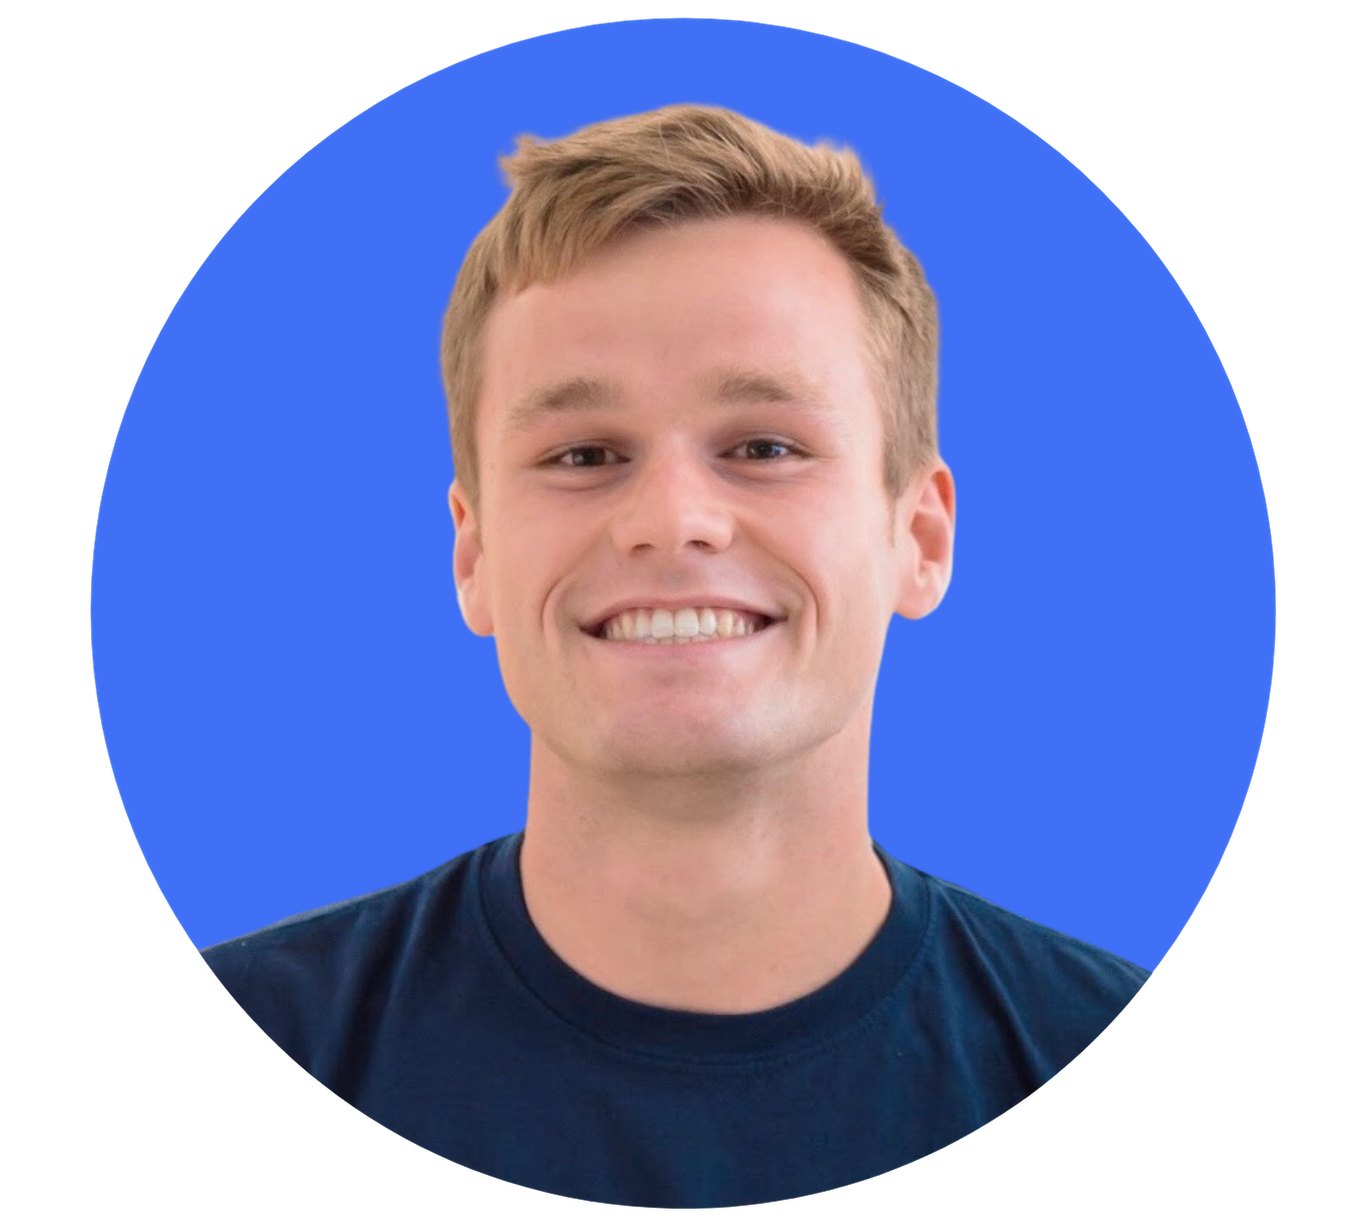
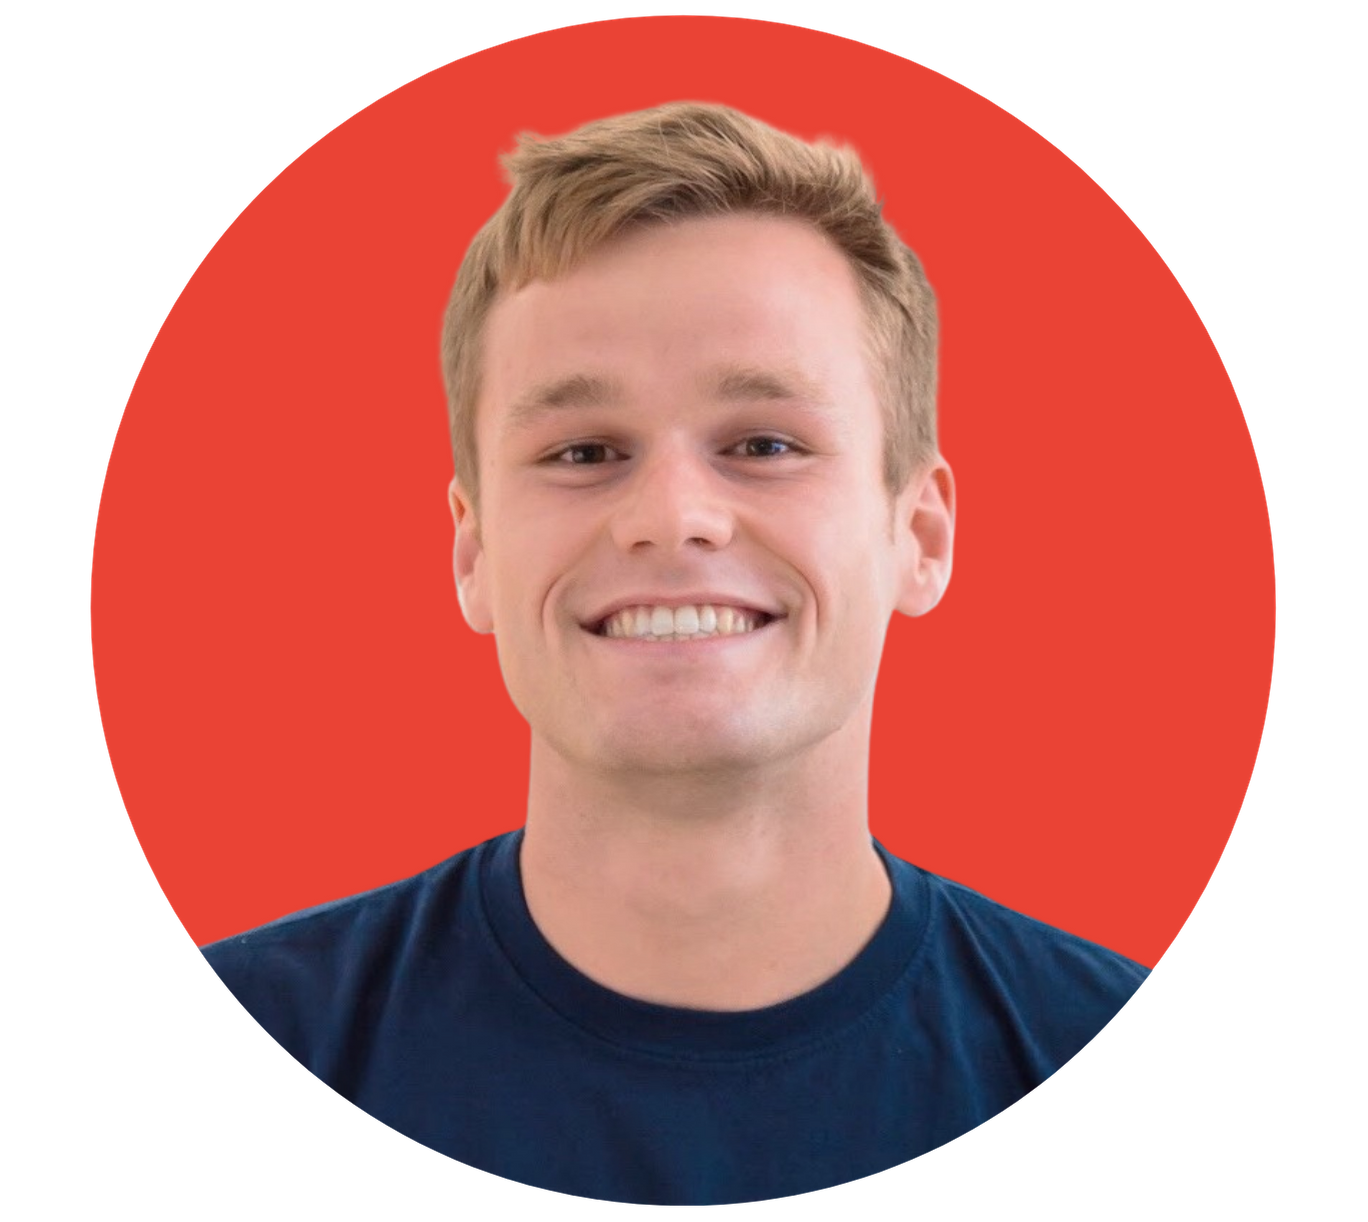
changed primary color to red, added animation to main h1 with variable text animation, changed primary foto de perfil a rojo

diff --git a/index.html b/index.html
@@ -45,7 +45,7 @@
             <!--===== HOME =====-->
             <section class="home bd-grid" id="home">
                 <div class="home__data">
-                    <h1 class="home__title">Hi,<br>I'm <span class="home__title-color">Cody</span><br> Web Designer</h1>
+                    <h1 class="home__title">Hi,<br>I'm <span class="home__title-color">Cody Dow</span><br> Web Designer</h1>
 
                     <a href="assets/CodyDow_CV2020.pdf" class="button" download>Download CV</a>
                 </div>
@@ -76,7 +76,7 @@
                         <div class="skills__data">
                             <div class="skills__names">
                                 <i class='bx bxl-adobe skills__icon'></i>
-                                <span class="skills__name">ILLUSTRATOR</span>
+                                <span class="skills__name">Illustrator</span>
                             </div>
                             <div class="skills__bar skills__illustrator">
                                 
@@ -88,7 +88,7 @@
                         <div class="skills__data">
                             <div class="skills__names">
                                 <i class='bx bxl-adobe skills__icon'></i>
-                                <span class="skills__name">INDESIGN</span>
+                                <span class="skills__name">InDesign</span>
                             </div>
                             <div class="skills__bar skills__indesign">
                                 
@@ -100,7 +100,7 @@
                         <div class="skills__data">
                             <div class="skills__names">
                                 <i class='bx bxl-adobe skills__icon' ></i>
-                                <span class="skills__name">PHOTOSHOP</span>
+                                <span class="skills__name">Photoshop</span>
                             </div>
                             <div class="skills__bar skills__photoshop">
                                 
@@ -112,7 +112,7 @@
                         <div class="skills__data">
                             <div class="skills__names">
                                 <i class='bx bxs-diamond skills__icon'></i>
-                                <span class="skills__name">SKETCH</span>
+                                <span class="skills__name">Sketch</span>
                             </div>
                             <div class="skills__bar skills__sketch">
                                 
@@ -124,7 +124,7 @@
                         <div class="skills__data">
                             <div class="skills__names">
                                 <i class='bx bxl-figma skills__icon'></i>
-                                <span class="skills__name">FIGMA</span>
+                                <span class="skills__name">Figma</span>
                             </div>
                             <div class="skills__bar skills__blender">
 
@@ -163,7 +163,7 @@
                         <div class="skills__data">
                             <div class="skills__names">
                                 <i class='bx bxl-javascript skills__icon' ></i>
-                                <span class="skills__name">JAVASCRIPT</span>
+                                <span class="skills__name">JavaScript</span>
                             </div>
                             <div class="skills__bar skills__js">
                                 
@@ -175,7 +175,7 @@
                         <div class="skills__data">
                             <div class="skills__names">
                                 <i class='bx bxl-react skills__icon'></i>
-                                <span class="skills__name">REACT JS</span>
+                                <span class="skills__name">React.js</span>
                             </div>
                             <div class="skills__bar skills__react">
                                 
@@ -187,7 +187,7 @@
                         <div class="skills__data">
                             <div class="skills__names">
                                 <i class='bx bxl-jquery skills__icon'></i>
-                                <span class="skills__name">JQUERY</span>
+                                <span class="skills__name">jQuery</span>
                             </div>
                             <div class="skills__bar skills__blender">
                                 
@@ -202,7 +202,7 @@
                         <div class="skills__data">
                             <div class="skills__names">
                                 <i class='bx bxs-movie skills__icon'></i>
-                                <span class="skills__name">FINAL CUT PRO</span>
+                                <span class="skills__name">Final Cut Pro</span>
                             </div>
                             <div class="skills__bar skills__css">
                                 
@@ -214,7 +214,7 @@
                         <div class="skills__data">
                             <div class="skills__names">
                                 <i class='bx bxl-adobe skills__icon'></i>
-                                <span class="skills__name">AFTER EFFECTS</span>
+                                <span class="skills__name">After Effects</span>
                             </div>
                             <div class="skills__bar skills__aftereffects">
                                 
@@ -226,7 +226,7 @@
                         <div class="skills__data">
                             <div class="skills__names">
                                 <i class='bx bxs-cube-alt skills__icon'></i>
-                                <span class="skills__name">BLENDER</span>
+                                <span class="skills__name">Blender</span>
                             </div>
                             <div class="skills__bar skills__blender">
                                 
@@ -239,7 +239,7 @@
                         <div class="skills__data">
                             <div class="skills__names">
                                 <i class='bx bxs-camera-movie skills__icon'></i>
-                                <span class="skills__name">CINEMA4D</span>
+                                <span class="skills__name">Cinema 4D</span>
                             </div>
                             <div class="skills__bar skills__cinema">
                                 
@@ -251,7 +251,7 @@
                         <div class="skills__data">
                             <div class="skills__names">
                                 <i class='bx bxl-adobe skills__icon'></i>
-                                <span class="skills__name">PREMIERE</span>
+                                <span class="skills__name">Premiere</span>
                             </div>
                             <div class="skills__bar skills__premiere">
 
@@ -342,7 +342,7 @@
 
                 <div class="contact__container bd-grid">
                     <h2 class="about__subtitle">Say hello!</h2>
-                    <p class="about__text">📱 <a href="tel:+19727624577" target="_blank">972 762-4577</a></p>
+                    <p class="about__text">📱 <a href="tel:+19727624577" target="_blank">972-762-4577</a></p>
                     <p class="about__text">💬 <a href="mailto:wodydoc@gmail.com" target="_blank">wodydoc@gmail.com</a></p>
                     <br>
                     <div class="LI-profile-badge"  data-version="v1" data-size="large" data-locale="en_US" data-type="horizontal" data-theme="light" data-vanity="codydow"><a class="LI-simple-link" href='https://es.linkedin.com/in/codydow?trk=profile-badge'>Cody Dow</a></div>

diff --git a/assets/css/styles.css b/assets/css/styles.css
@@ -1,6 +1,6 @@
 /*===== GOOGLE FONTS =====*/
 /* @import url("https://fonts.googleapis.com/css2?family=Poppins:wght@400;600;700&display=swap"); */
-@import url('https://fonts.googleapis.com/css2?family=Comfortaa:wght@700&display=swap');
+@import url('https://fonts.googleapis.com/css2?family=Comfortaa:wght@300;400;500;600;700&display=swap');
 /*===== VARIABLES CSS =====*/
 :root{
   --header-height: 3rem;
@@ -9,7 +9,7 @@
 
 /*===== Colores =====*/
 :root{
-  --first-color: #4070F4;
+  --first-color: #EA4335;
   --second-color: #5f6368;
 }
 
@@ -205,7 +205,24 @@ img{
 }
 .home__title-color{
   color: var(--first-color);
+  font-family: 'Comfortaa', cursive;
+  /* font-size: 5em; */
+  font-size: var(--big-font-size);
+  animation: 3s infinite variation;
 }
+
+@keyframes variation {
+  0% {
+    font-weight: 1;
+  }
+  50% {
+    font-weight: 900;
+  }
+  100% {
+    font-weight: 1;
+  }
+}
+
 .home__social{
   display: flex;
   flex-direction: column;
@@ -297,7 +314,7 @@ img{
 }
 
 .skills__percentage{
-  font-size: x-small !important;
+  font-size: 0.6em !important;
 }
 /* GRAPHIC AND WEB SOFTWARE */
 .skills__figma{
@@ -388,7 +405,7 @@ img{
 
 /* ===== FOOTER =====*/
 .footer{
-  background-color: var(--second-color);
+  background-color: #0E2431;
   color: #fff;
   text-align: center;
   font-weight: var(--font-semi);

diff --git a/assets/js/main.js b/assets/js/main.js
@@ -64,5 +64,11 @@ gsap.to(".first", 1.5, {delay: .5, top: "-100%", ease: Expo.easeInOut});
 gsap.to(".second", 1.5, {delay: .7, top: "-100%", ease: Expo.easeInOut});
 gsap.to(".third", 1.5, {delay: .9, top: "-100%", ease: Expo.easeInOut});
 
-// IMG
-// gsap.from('.home__img', {opacity: 0, duration: 2, delay: 2, x: 60})
+// VARIABLE TEXT ANIMATION
+var theText = "Cody";
+for (i = 0; i < theText.length; i++) {
+  delay = (i * 3) / theText.length;
+  var e = $("<span>" + theText[i] + "</span>");
+  $("div").append(e);
+  e.css("animation-delay", delay+"s");
+}
